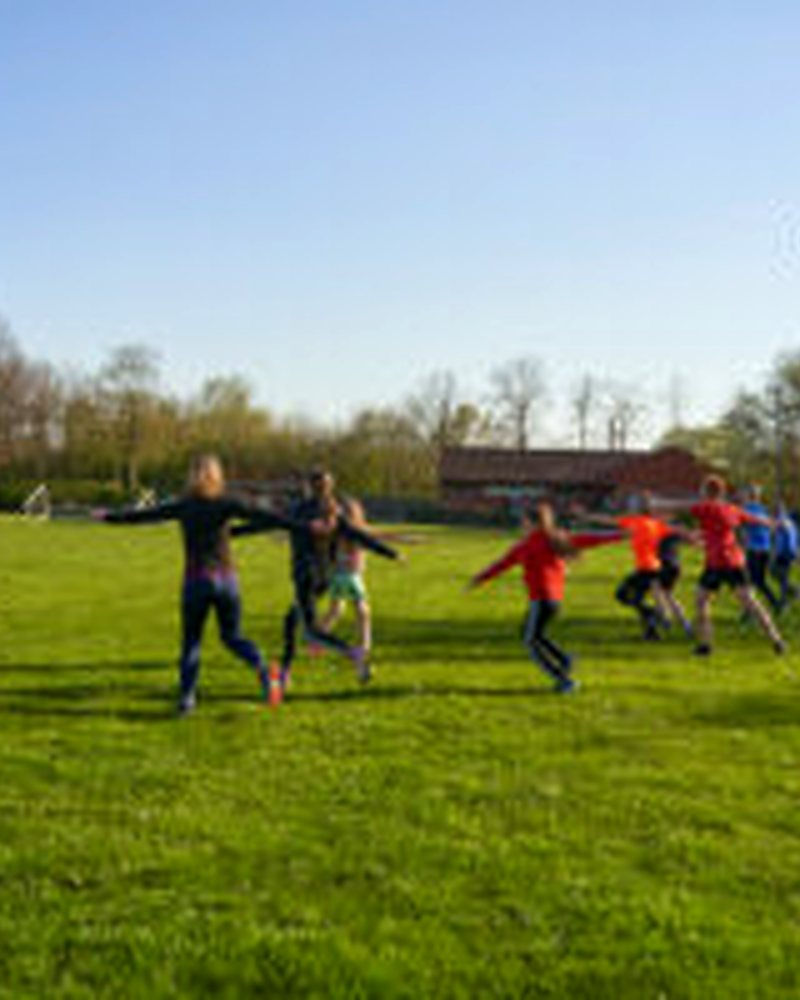
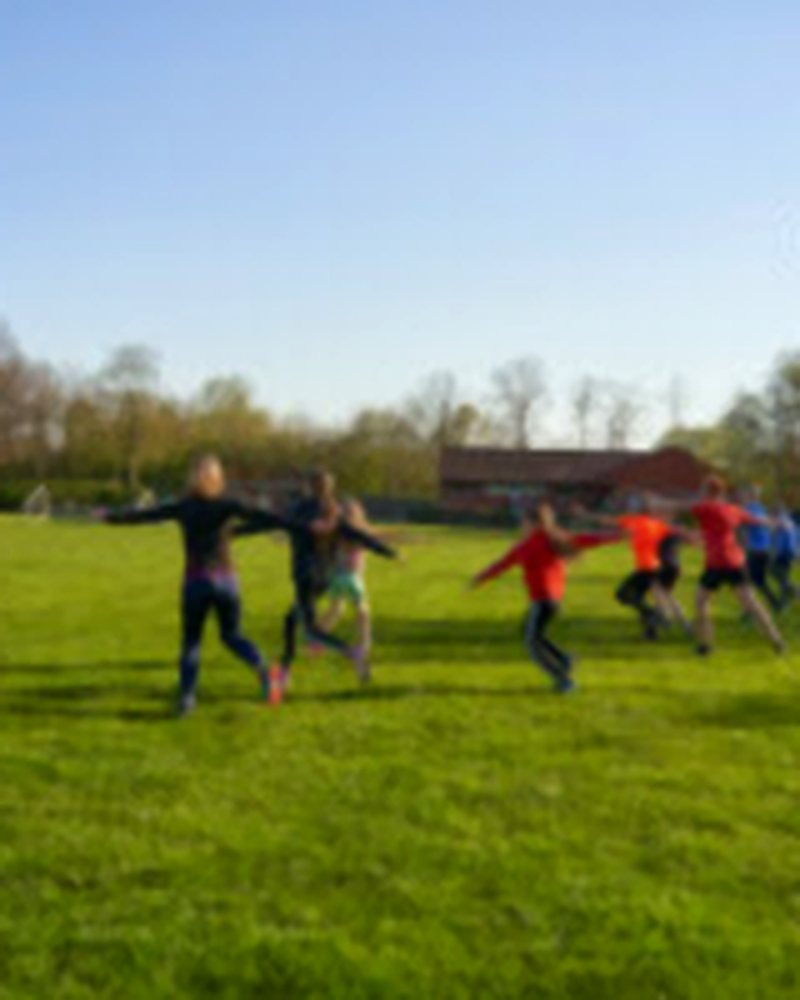
Kleine Vorlagen im Karussell sauberer vergrößern (#31)
Die drei 300-px-Vorlagen wirkten krümelig. Grund war nicht allein die
fehlende Auflösung, sondern die Reihenfolge: Erst wurde auf 800 × 1000
gezogen, dann kräftig nachgeschärft – damit wurde die JPEG-Blockstruktur
mitgeschärft.

Jetzt in umgekehrter Logik: Der Ausschnitt wird in Originalgröße genommen,
damit nichts vergrößert wird, was ohnehin wegfällt. Die Blockstruktur wird
gedämpft, solange sie klein ist. Vergrößert wird in Schritten von 1,5 statt
in einem Sprung. Und geschärft wird nur an echten Kanten – Himmel, Rasen und
Wege bleiben glatt, denn dort fällt das Rauschen als „pixelig“ auf. Die Maske
dafür kommt aus FIND_EDGES, es braucht also keine zusätzliche Abhängigkeit.

Die Dateien sind dadurch sogar kleiner, weil weniger Rauschen zu speichern
ist.

Ersetzt ist damit keine Auflösung. Der wirksame Hebel steht jetzt im README:
Die Dateinamen enden auf „-300x200“, das Namensschema von WordPress für
Vorschaubilder. Das Original liegt im selben Verzeichnis unter demselben
Namen ohne diesen Zusatz.

Claude-Session: https://claude.ai/code/session_01CbYKnX67D9NzrjZKCP4pfn

diff --git a/tools/karussell.py b/tools/karussell.py
@@ -5,9 +5,11 @@ Bildausschnitt je Foto: Bei querformatigen Aufnahmen entscheidet der
 Ausschnitt, ob das Motiv im Bild bleibt.
 
 Drei der Vorlagen sind nur 300 px breite Vorschaubilder von der alten
-Website. Sie werden hochskaliert und staerker nachgeschaerft; scharf wie die
-grossen werden sie dadurch nicht. Sobald die Originale vorliegen, hier nur
-die Datei tauschen und neu laufen lassen.
+Website. Fuer sie greift hochskalieren() – scharf wie die grossen werden sie
+dadurch nicht. Ihre Dateinamen enden auf „-300x200“ beziehungsweise
+„-300x225“; das ist das Namensschema, mit dem WordPress Vorschaubilder ablegt.
+Das Original liegt im selben Verzeichnis unter demselben Namen ohne diesen
+Zusatz. Sobald es vorliegt, hier nur die Datei tauschen und neu laufen lassen.
 """
 from PIL import Image, ImageEnhance, ImageOps, ImageFilter
 import pathlib
@@ -35,6 +37,39 @@ def tonwertkurve(img, schwarz=0.0, weiss=1.0, gamma=1.0, tiefen=0.0):
     return img.point(lut * len(img.getbands()))
 
 
+def kantenmaske(bild):
+    """Weiss an Kanten, schwarz in glatten Flaechen."""
+    kanten = bild.convert('L').filter(ImageFilter.FIND_EDGES)
+    kanten = kanten.filter(ImageFilter.GaussianBlur(2.0))
+    # Alles unter der Schwelle gilt als Flaeche, darueber weich ansteigend
+    schwelle, spanne = 6, 26
+    return kanten.point(
+        lambda v: 0 if v < schwelle else min(255, int((v - schwelle) * 255 / spanne))
+    )
+
+
+def hochskalieren(bild, breite, hoehe):
+    """Kleine Vorlagen vergroessern, ohne dass sie kruemelig werden.
+
+    Das Problem der 300-px-Vorlagen ist nicht allein die fehlende Aufloesung,
+    sondern die JPEG-Blockstruktur darin. Wer die einfach hochzieht und dann
+    nachschaerft, schaerft die Bloecke mit. Deshalb: erst die Bloecke daempfen,
+    solange sie klein sind, dann in Schritten vergroessern, und am Ende nur
+    echte Kanten schaerfen – Flaechen wie Himmel, Rasen und Wege bleiben glatt,
+    denn dort faellt das Rauschen als „pixelig“ auf.
+    """
+    entblockt = bild.filter(ImageFilter.MedianFilter(3))
+    bild = Image.blend(bild, entblockt, 0.55).filter(ImageFilter.GaussianBlur(0.4))
+
+    while bild.width * 1.5 < breite:
+        bild = bild.resize((int(bild.width * 1.5), int(bild.height * 1.5)), Image.LANCZOS)
+    bild = bild.resize((breite, hoehe), Image.LANCZOS)
+
+    scharf = bild.filter(ImageFilter.UnsharpMask(radius=1.9, percent=95, threshold=2))
+    glatt = bild.filter(ImageFilter.GaussianBlur(0.7))
+    return Image.composite(scharf, glatt, kantenmaske(bild))
+
+
 def verarbeite(quelle, ziel, ausschnitt, schwarz, weiss, gamma, tiefen,
                kontrast, saettigung, schaerfe):
     im = ImageOps.exif_transpose(Image.open(quelle)).convert('RGB')
@@ -42,13 +77,19 @@ def verarbeite(quelle, ziel, ausschnitt, schwarz, weiss, gamma, tiefen,
     im = tonwertkurve(im, schwarz, weiss, gamma, tiefen)
     im = ImageEnhance.Contrast(im).enhance(kontrast)
     im = ImageEnhance.Color(im).enhance(saettigung)
-    im = ImageOps.fit(im, (BREITE, HOEHE), Image.LANCZOS, centering=ausschnitt)
     if klein:
-        # Hochskaliert: feiner Radius, kraeftiger Betrag – holt Kanten zurueck,
-        # ohne die weichgezeichneten Flaechen aufrauhen zu lassen.
-        im = im.filter(ImageFilter.UnsharpMask(radius=1.1, percent=110, threshold=4))
-    elif schaerfe:
-        im = im.filter(ImageFilter.UnsharpMask(radius=1.4, percent=int(schaerfe * 100), threshold=3))
+        # Erst den Ausschnitt in Originalgroesse nehmen, dann vergroessern –
+        # nicht umgekehrt, sonst wird Material hochskaliert, das wegfaellt.
+        b = min(im.width, round(im.height * BREITE / HOEHE))
+        h = round(b * HOEHE / BREITE)
+        im = ImageOps.fit(im, (b, h), Image.LANCZOS, centering=ausschnitt)
+        im = hochskalieren(im, BREITE, HOEHE)
+    else:
+        im = ImageOps.fit(im, (BREITE, HOEHE), Image.LANCZOS, centering=ausschnitt)
+        if schaerfe:
+            im = im.filter(
+                ImageFilter.UnsharpMask(radius=1.4, percent=int(schaerfe * 100), threshold=3)
+            )
     for q in (84, 80, 76, 72, 68):
         im.save(ziel, 'JPEG', quality=q, optimize=True, progressive=True)
         if ziel.stat().st_size <= MAX_BYTES:

diff --git a/public/images/karussell/README.md b/public/images/karussell/README.md
@@ -20,14 +20,30 @@ Hochformat 4 : 5, 800 × 1000 px, JPG unter 180 KB. Aufbereitet mit
 Am Desktop steht das Karussell im Hochformat, auf schmalen Geräten im Format
 4 : 3 – der Ausschnitt wird per `object-fit: cover` gefüllt.
 
-**Drei Vorlagen sind zu klein**
+**Drei Vorlagen sind zu klein – und die Originale gibt es**
 
 `leichtathletik-kinder`, `leichtathletik-jugend` und `freitagsradler` stammen
-als 300-px-Vorschaubilder von der alten Website. Sie sind hochskaliert und
-kräftiger nachgeschärft, bleiben aber weicher als die übrigen. Sobald bessere
-Aufnahmen vorliegen: in `tools/karussell.py` die Quelldatei tauschen und das
-Skript neu laufen lassen – alle Bilder hier sind Platzhalter, bis eigenes
-Material da ist.
+als 300-px-Vorschaubilder von der alten Website. Ihre Dateinamen enden auf
+`-300x200` beziehungsweise `-300x225`; so legt WordPress Vorschaubilder ab.
+**Das Original liegt im selben Verzeichnis unter demselben Namen ohne diesen
+Zusatz** – etwa
+
+```
+…/uploads/2021/06/21.06.07_Leichtathletik_Kindergruppe_Training_2-300x200.jpg
+…/uploads/2021/06/21.06.07_Leichtathletik_Kindergruppe_Training_2.jpg   ← Original
+```
+
+Das ist der wirksamste Hebel: Mit den Originalen wird aus einer fünffachen
+Vergrößerung eine Verkleinerung.
+
+Bis dahin greift `hochskalieren()` in `tools/karussell.py`: erst die
+JPEG-Blockstruktur dämpfen, solange sie klein ist, dann in Schritten
+vergrößern, am Ende nur echte Kanten schärfen und Flächen glatt lassen. Das
+nimmt den krümeligen Eindruck, ersetzt aber keine Auflösung.
+
+Alle Bilder hier sind Platzhalter, bis eigenes Material da ist. Zum Tauschen:
+in `tools/karussell.py` die Quelldatei ersetzen und das Skript neu laufen
+lassen.
 
 **Personen auf Fotos**
 
